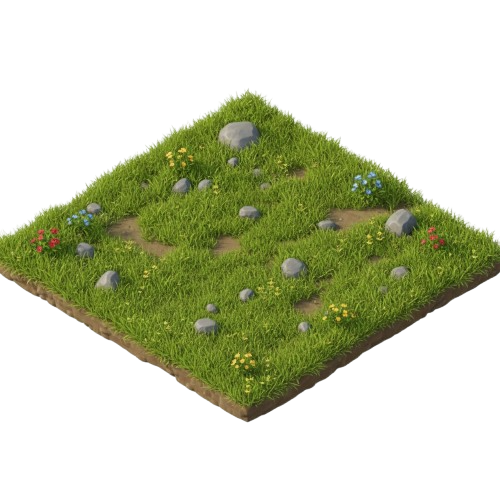
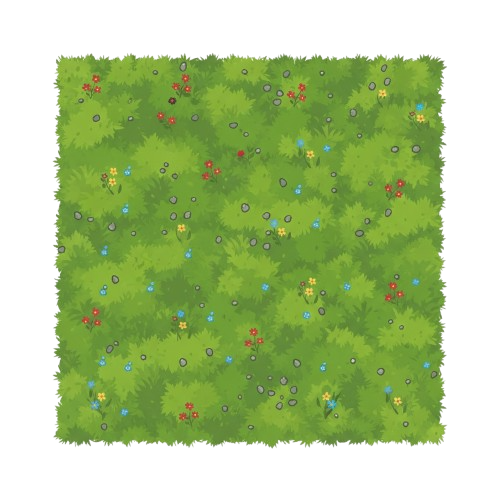
Update to top-down tile sprites, remove rotation
Replaced isometric tiles with proper top-down square tiles.

diff --git a/minigame/game.js b/minigame/game.js
@@ -860,18 +860,11 @@ class Game {
                 const px = x * this.cellSize;
                 const py = y * this.cellSize;
                 const cellType = this.currentMap.buildableAreas[y][x];
-                const centerX = px + this.cellSize / 2;
-                const centerY = py + this.cellSize / 2;
 
                 // Draw grass tiles (buildable areas)
                 if (cellType === 1) {
                     if (grassSprite) {
-                        ctx.save();
-                        ctx.translate(centerX, centerY);
-                        ctx.rotate(Math.PI / 4); // Rotate 45 degrees
-                        const size = this.cellSize * 1.42; // Scale up to fill after rotation
-                        ctx.drawImage(grassSprite, -size / 2, -size / 2, size, size);
-                        ctx.restore();
+                        ctx.drawImage(grassSprite, px, py, this.cellSize, this.cellSize);
                     } else {
                         ctx.fillStyle = '#2d4a2d';
                         ctx.fillRect(px, py, this.cellSize, this.cellSize);
@@ -884,12 +877,7 @@ class Game {
                 // Draw path tiles
                 if (cellType === 2) {
                     if (pathSprite) {
-                        ctx.save();
-                        ctx.translate(centerX, centerY);
-                        ctx.rotate(Math.PI / 4); // Rotate 45 degrees
-                        const size = this.cellSize * 1.42; // Scale up to fill after rotation
-                        ctx.drawImage(pathSprite, -size / 2, -size / 2, size, size);
-                        ctx.restore();
+                        ctx.drawImage(pathSprite, px, py, this.cellSize, this.cellSize);
                     } else {
                         ctx.fillStyle = this.currentMap.pathColor || '#3d2817';
                         ctx.fillRect(px, py, this.cellSize, this.cellSize);
